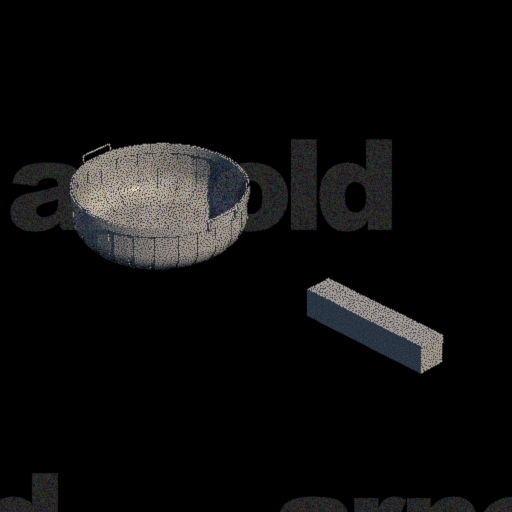
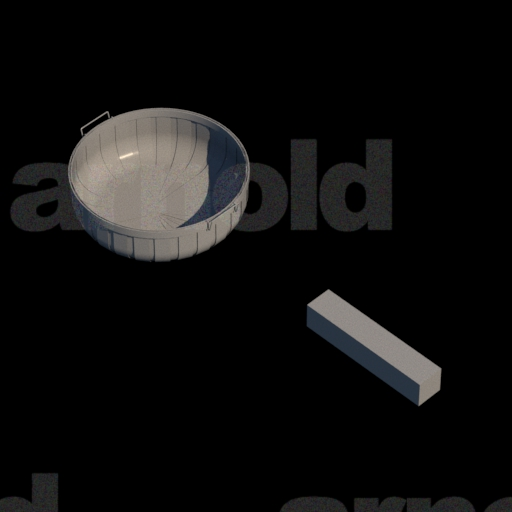
Added Quality Argument

Changed region(s): [[0.125, 0.1875, 0.5, 0.5312], [0.5938, 0.5312, 0.875, 0.8125]]

diff --git a/thumb/__init__.py b/thumb/__init__.py
@@ -5,7 +5,7 @@ from xform import rot, trans, cameraMatrix
 import os
 
 class Thumbnail:
-    def __init__(self, source=None, light=".lights.ass", target="thumbnail.jpeg", pan=45, tilt=45, fov=10, res=512, dist=2, overscan=1.25):
+    def __init__(self, source=None, light=".lights.ass", target="thumbnail.jpeg", pan=45, tilt=45, fov=10, res=512, dist=1, quality = 4, overscan=1):
         test = True
         universe = AiUniverse()
 
@@ -14,6 +14,7 @@ class Thumbnail:
         AiNodeSetStr(opt, "outputs", "RGBA RGBA /filter /driver")
         AiNodeSetInt(opt, "xres", int(res))
         AiNodeSetInt(opt, "yres", int(res))
+        AiNodeSetInt(opt, "AA_samples", quality)
 
         #Create filter
         filter = AiNode(universe,"gaussian_filter")

diff --git a/thumb/xform.py b/thumb/xform.py
@@ -92,7 +92,7 @@ def cameraMatrix(bounds, pan, tilt, fov, dist):
 
     # solve the z position from the diagonal distance of bounds
     h = np.abs(np.linalg.norm(bounds[0] - bounds[1]))
-    z = (h / 2) / np.tan(np.radians(fov / 2))
+    z = (h / 2) / np.tan(np.radians(fov / 2)) * dist
 
     #solver the center of the bounds
     c = np.multiply(np.add(bounds[0],bounds[1]),0.5)

diff --git a/main.py b/main.py
@@ -10,15 +10,15 @@ print path.exists(source)
 
 target="thumbnail.jpeg"
 pan=45
-tilt=30
+tilt=45
 fov=10
 res=512
 dist = 1
+quality = 6
 overscan=1
 
-
 AiBegin()
-myThumbnail = thumb.Thumbnail(source,light,target,pan,tilt,fov,res,dist,overscan)
+myThumbnail = thumb.Thumbnail(source,light,target,pan,tilt,fov,res,dist,quality,overscan)
 myThumbnail.render()
 AiEnd()
 
